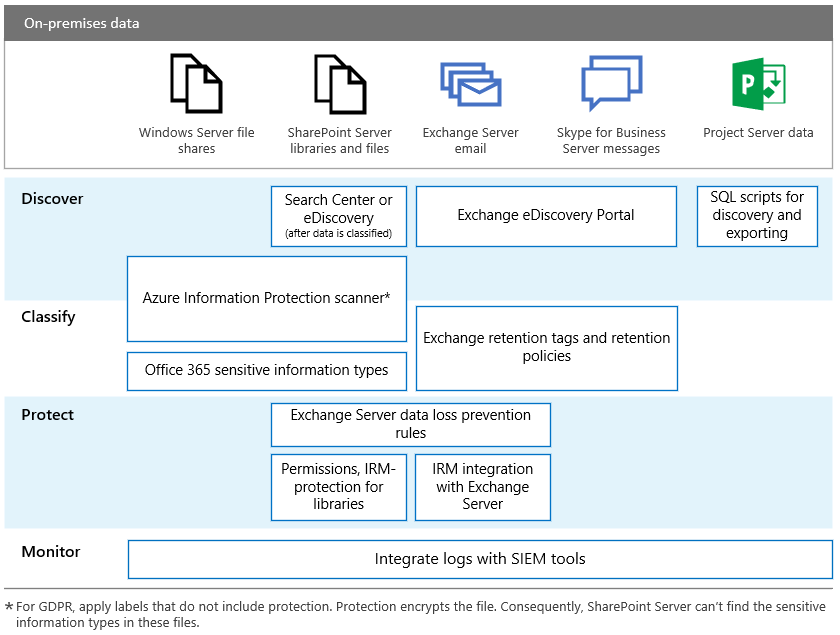
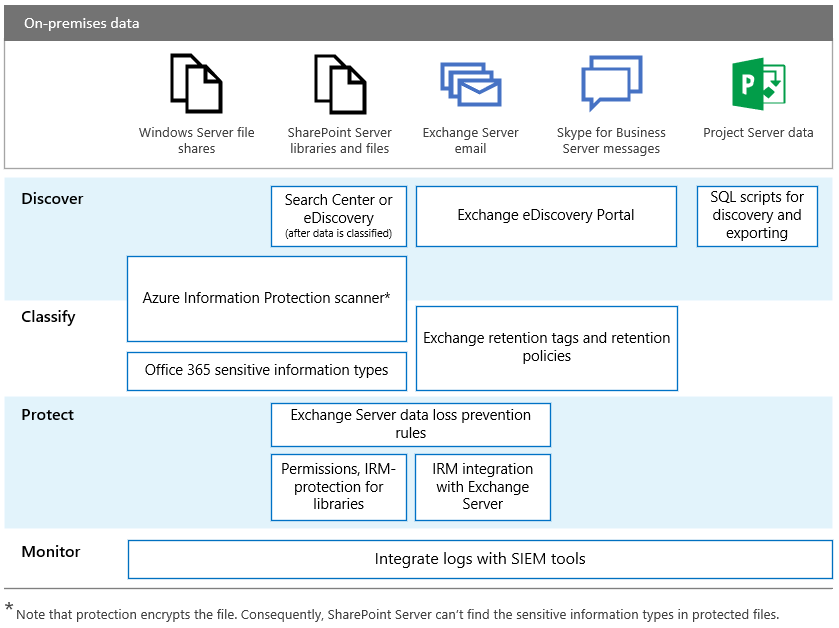
Image update

diff --git a/Enterprise/gdpr-for-office-servers.md b/Enterprise/gdpr-for-office-servers.md
@@ -46,4 +46,4 @@ For accessibility, the following table provides the same examples in the illustr
 |Protect||Exchange Server data loss prevention rules; Permissions, IRM-protection for libraries|Exchange Server data loss prevention rules; IRM integration with Exchange Server|||
 |Monitor|Integrate logs with SIEM tools|Integrate logs with SIEM tools|Integrate logs with SIEM tools|Integrate logs with SIEM tools|Integrate logs with SIEM tools|
 
-*For GDPR, apply labels that do not include protection. Protection encrypts the file. Consequently, SharePoint Server can't find the sensitive information types in these files.
+*Note that protection encrypts the file. Consequently, SharePoint Server can’t find the sensitive information types in protected files.
